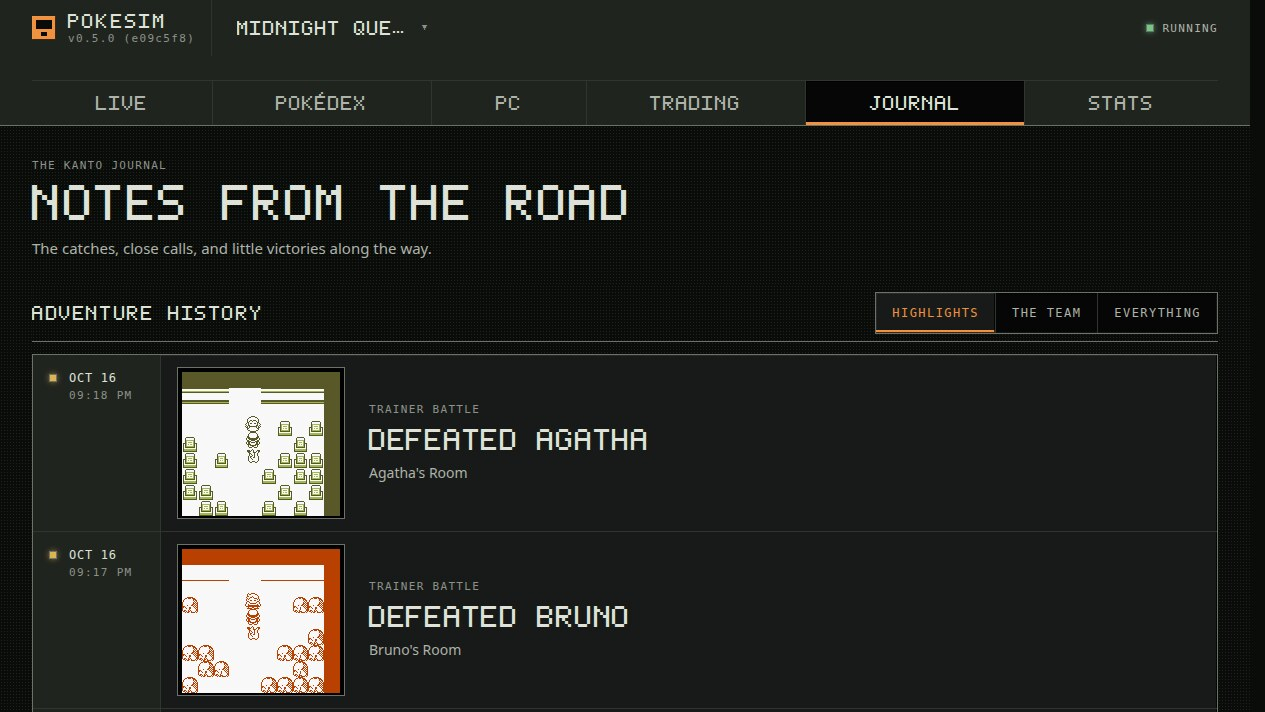
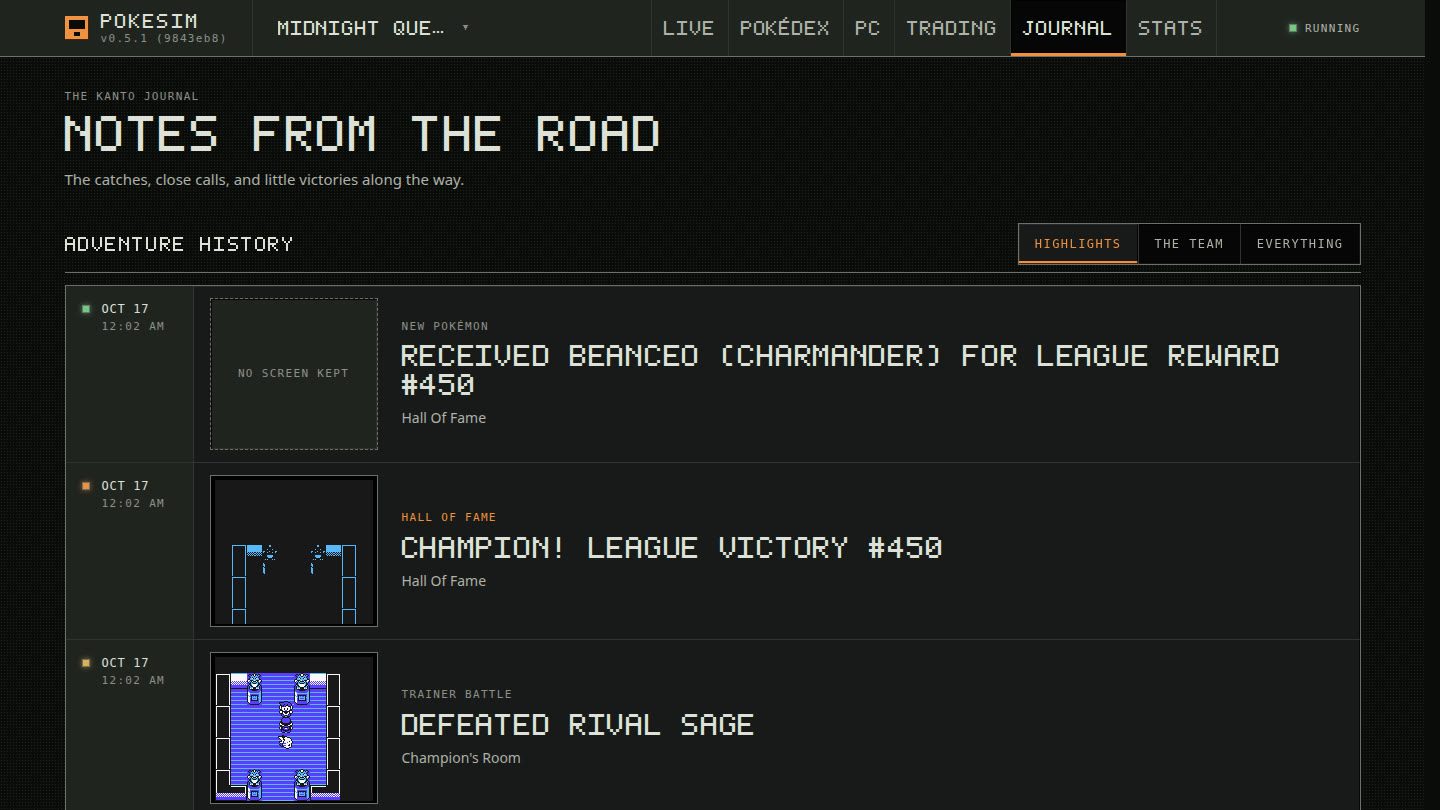
Recapture the README media at a desktop viewport

diff --git a/docs/images/README.md b/docs/images/README.md
@@ -7,27 +7,25 @@ the public README. No game state or statistics were fabricated for these images.
 
 | File | Captured | View |
 | --- | --- | --- |
-| `gen2-live.gif` | October 16, 2026 | Crystal battling Will of the Elite Four, with 16 badges and 251 registered |
-| `gen1-live.gif` | October 16, 2026 | Blue walking Victory Road into a wild Geodude battle, with 151 registered |
-| `journal-panel.jpg` | October 16, 2026 | Yellow journal with a League victory, a rival win and a starter reward |
-| `stats-panel.jpg` | October 16, 2026 | Crystal overview totals and milestones |
-| `pokedex-panel.jpg` | October 16, 2026 | Crystal Pokédex with 251 of 251 registered |
-| `pc-panel.jpg` | October 16, 2026 | Crystal PC boxes with the current box of new catches |
-| `library.jpg` | October 16, 2026 | Library with Red, Blue, Silver, Crystal, Gold and Yellow all running |
+| `gen2-live.gif` | October 17, 2026 | Crystal battling Bruno of the Elite Four, with 16 badges and 251 registered |
+| `gen1-live.gif` | October 17, 2026 | Blue on Route 18 meeting a wild Fearow, with 151 registered |
+| `journal-panel.jpg` | October 17, 2026 | Yellow journal with a League victory, a rival win and a starter reward |
+| `stats-panel.jpg` | October 17, 2026 | Crystal overview totals and milestones |
+| `pokedex-panel.jpg` | October 17, 2026 | Crystal Pokédex with 251 of 251 registered |
+| `pc-panel.jpg` | October 17, 2026 | Crystal PC boxes with the current box of new catches |
+| `library.jpg` | October 17, 2026 | Library with Red, Blue, Silver, Crystal, Gold and Yellow all running |
 
-All captures come from the owner's home server running public version 0.5.0, in
+All captures come from the owner's home server running public version 0.5.1, in
 the dark theme. Simulation states and speed were not changed for the captures.
 
-Both GIFs are eight-second headless browser recordings of the Live page at a
-900-pixel viewport, from the top of the page through the controls. They loop at
-six frames per second and measure 720 × 940 pixels. The colored party portraits
-and Pokédex art come from the owner's optional community sprite pack. The game
-screen itself is rendered by the emulator.
+Every capture uses a 1440-pixel desktop viewport. Both GIFs are eight-second
+headless browser recordings of the Live page, from the top of the page through
+the controls. They loop at six frames per second and measure 1080 × 829 pixels.
+The colored party portraits and Pokédex art come from the owner's optional
+community sprite pack. The game screen itself is rendered by the emulator.
 
-The panels use a 1265-pixel viewport. Journal and Stats panels are 712 pixels
-tall. Pokédex and PC panels are 1000 pixels tall. The Library capture ends after
-the second row of adventures. Three Generation II cards show the Library's
-"Stuck?" note, which was present on the live server at capture time.
+Journal and Stats panels are 1440 × 810 pixels. Pokédex and PC panels are
+1440 × 1138 pixels. The Library capture ends after the second row of adventures.
 
 The README arranges each pair in a two-column Markdown table. Matching dimensions
 keep the panels aligned. Each image links to the original for a full-size view.

diff --git a/README.md b/README.md
@@ -11,7 +11,7 @@ Watch an automatic player catch Pokémon, earn badges and challenge the League i
 your browser. Take control whenever you like, then hand the adventure back.
 Everything runs locally, with no model API or subscription.
 
-![A live Crystal adventure with all 16 badges and 251 Pokémon registered, battling Will of the Elite Four](docs/images/gen2-live.gif)
+![A live Crystal adventure with all 16 badges and 251 Pokémon registered, battling Bruno of the Elite Four](docs/images/gen2-live.gif)
 
 Eight seconds of a Crystal adventure at the Elite Four, with all 16 badges and all 251 Pokémon registered.
 
@@ -37,7 +37,7 @@ Eight seconds of a Crystal adventure at the Elite Four, with all 16 badges and a
 
 ## Generation I: Red, Blue and Yellow
 
-![A live Blue adventure walking Victory Road and battling a wild Geodude](docs/images/gen1-live.gif)
+![A live Blue adventure on Route 18 meeting a wild Fearow](docs/images/gen1-live.gif)
 
 Red and Blue adventures play the Kanto story to the Hall of Fame and keep going.
 Yellow starts with Pikachu and follows its own story, including Jessie and James
